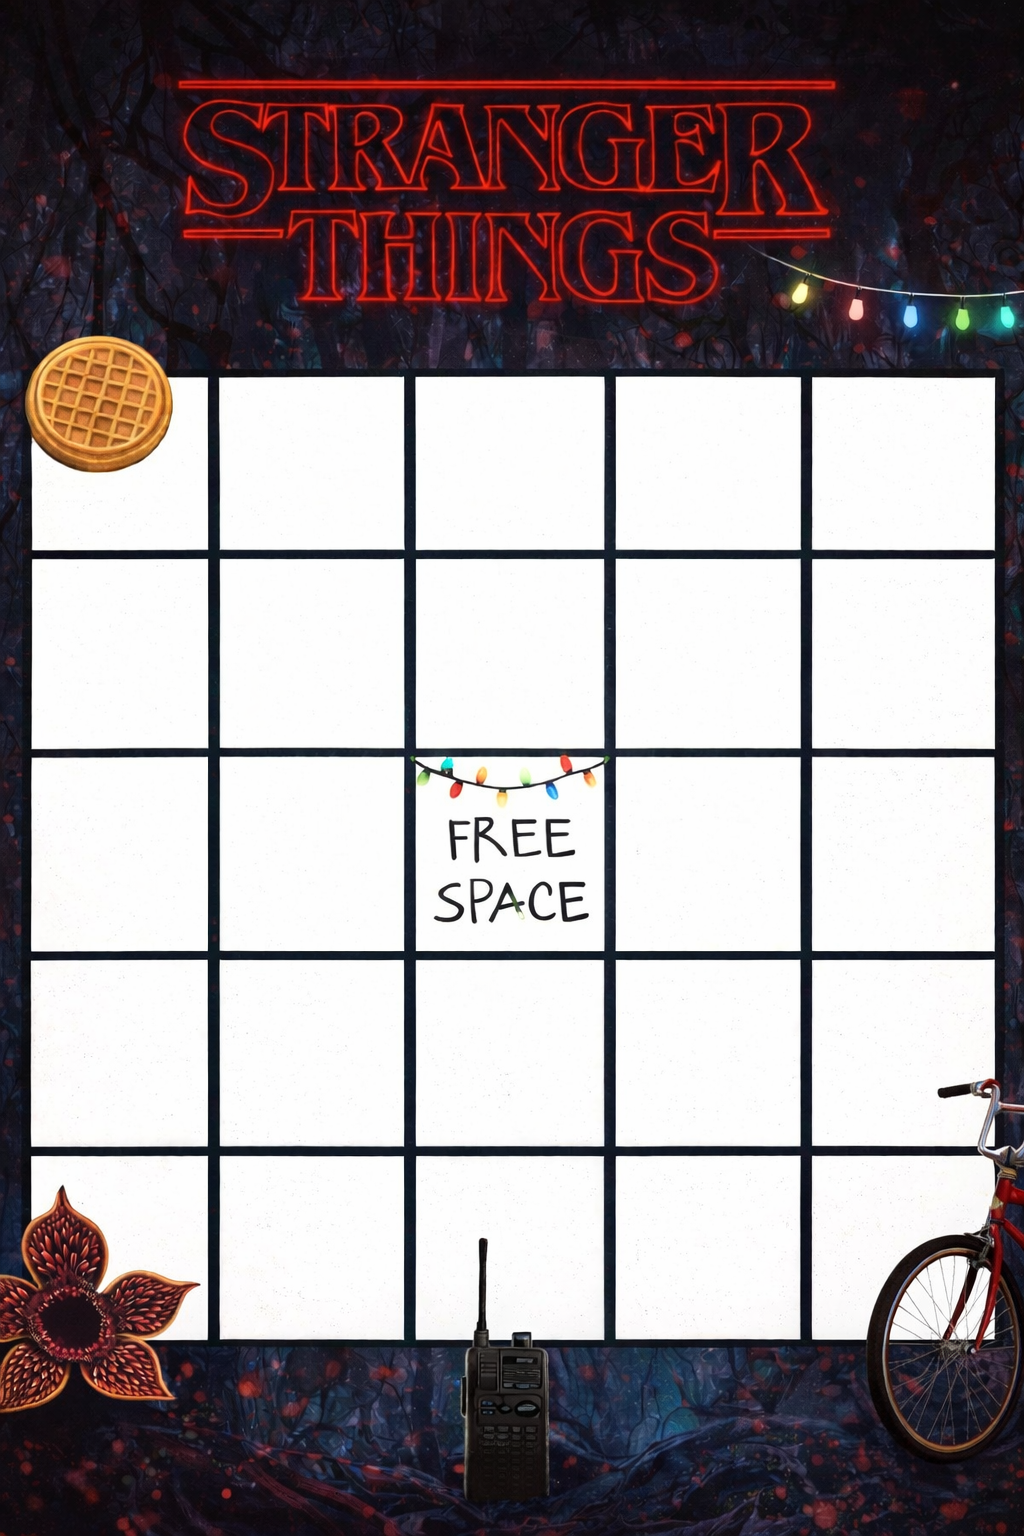
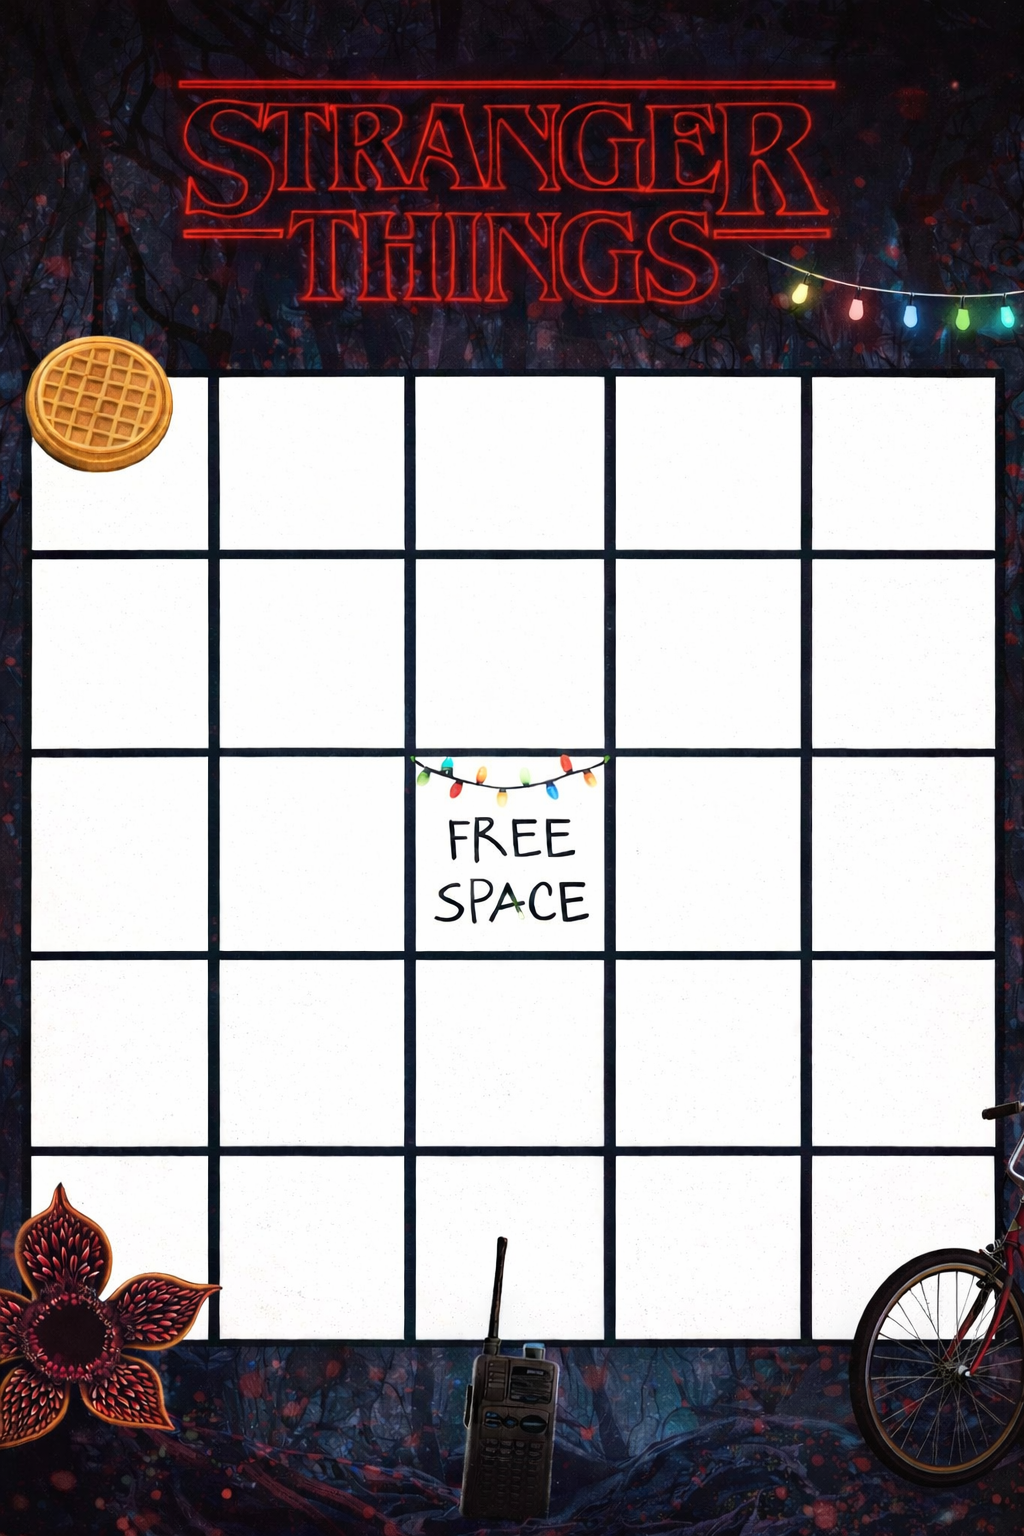
Update visuals and card assets

diff --git a/index.html b/index.html
@@ -16,9 +16,22 @@
             margin: 0;
             overflow: hidden;
             background-color: var(--bg-dark);
+            background-image: url("assets/background.jpg");
+            background-size: cover;
+            background-position: center 12%;
+            background-repeat: no-repeat;
             font-family: 'Courier New', Courier, monospace;
             color: var(--stranger-red);
             user-select: none;
+            font-size: 18px;
+        }
+
+        body::before {
+            content: "";
+            position: fixed;
+            inset: 0;
+            background: rgba(2, 0, 4, 0.78);
+            z-index: 0;
         }
 
         #canvas-container {
@@ -53,7 +66,7 @@
 
         h1 {
             margin: 0;
-            font-size: 2.5rem;
+            font-size: 5rem;
             text-transform: uppercase;
             letter-spacing: 8px;
             text-shadow: 0 0 10px var(--stranger-glow), 0 0 20px #520000;
@@ -68,7 +81,7 @@
             max-height: 250px;
             width: 280px;
             overflow-y: auto;
-            font-size: 0.9rem;
+            font-size: 1.8rem;
             box-shadow: 0 0 15px rgba(199, 62, 62, 0.3);
             backdrop-filter: blur(8px);
         }
@@ -86,7 +99,7 @@
             bottom: 40px;
             left: 50%;
             transform: translateX(-50%);
-            font-size: 1.2rem;
+            font-size: 2.4rem;
             letter-spacing: 4px;
             opacity: 0.8;
             animation: pulse 2s infinite ease-in-out;
@@ -112,8 +125,8 @@
         #modal-content {
             background: var(--panel-bg);
             border: 4px double var(--stranger-red);
-            padding: 40px;
-            width: 600px;
+            padding: 80px;
+            width: 1200px;
             max-width: 90%;
             text-align: center;
             box-shadow: 0 0 60px rgba(255, 0, 0, 0.6);
@@ -127,11 +140,11 @@
         }
 
         #ball-graphic {
-            width: 150px;
-            height: 150px;
+            width: 300px;
+            height: 300px;
             background: radial-gradient(circle at 30% 30%, #fffef8, #d5c4a5);
             border-radius: 50%;
-            margin: 0 auto 30px;
+            margin: 0 auto 60px;
             display: flex;
             justify-content: center;
             align-items: center;
@@ -140,8 +153,8 @@
         }
 
         #ball-text-circle {
-            width: 100px;
-            height: 100px;
+            width: 200px;
+            height: 200px;
             background: #fff;
             border-radius: 50%;
             border: 4px solid #000;
@@ -149,17 +162,17 @@
             justify-content: center;
             align-items: center;
             font-weight: bold;
-            font-size: 2.5rem;
+            font-size: 10rem;
             color: #000;
             text-shadow: none;
         }
 
         #reveal-text {
-            font-size: 2.2rem;
+            font-size: 8.8rem;
             font-weight: bold;
             text-transform: uppercase;
-            margin-bottom: 30px;
-            min-height: 80px;
+            margin-bottom: 60px;
+            min-height: 160px;
             line-height: 1.2;
             text-shadow: 2px 2px #000, 0 0 15px var(--stranger-glow);
         }
@@ -169,9 +182,9 @@
             background: transparent;
             border: 2px solid var(--stranger-red);
             color: var(--stranger-red);
-            padding: 15px 40px;
+            padding: 30px 80px;
             font-family: inherit;
-            font-size: 1.2rem;
+            font-size: 4.8rem;
             cursor: pointer;
             letter-spacing: 4px;
             transition: all 0.3s;
@@ -496,40 +509,40 @@
 
         function createLightning() {
             lightningGroup = new THREE.Group();
-            const boltMat = new THREE.LineBasicMaterial({
-                color: 0xff1a1a, transparent: true, opacity: 0.75
+            const boltMat = new THREE.MeshBasicMaterial({
+                color: 0xf9f3ff, transparent: true, opacity: 0.75
             });
-            const glowMat = new THREE.LineBasicMaterial({
-                color: 0x660000, transparent: true, opacity: 0.35
+            const glowMat = new THREE.MeshBasicMaterial({
+                color: 0x5a2030, transparent: true, opacity: 0.25
             });
 
-            for (let i = 0; i < 6; i++) {
-                const bolt = new THREE.Line(generateBoltGeometry(), boltMat.clone());
-                const glow = new THREE.Line(bolt.geometry.clone(), glowMat.clone());
+            for (let i = 0; i < 2; i++) {
+                const boltGroup = new THREE.Group();
+                const path = generateBoltPath();
+                const bolt = new THREE.Mesh(new THREE.TubeGeometry(path, 20, 0.16, 6, false), boltMat.clone());
+                const glow = new THREE.Mesh(new THREE.TubeGeometry(path, 20, 0.38, 6, false), glowMat.clone());
                 bolt.userData.baseOpacity = 0.75;
-                glow.userData.baseOpacity = 0.35;
-                bolt.position.set((Math.random() - 0.5) * 120, 10 + Math.random() * 40, (Math.random() - 0.5) * 120);
-                glow.position.copy(bolt.position);
-                bolt.rotation.set(Math.random() * Math.PI, Math.random() * Math.PI, Math.random() * Math.PI);
-                glow.rotation.copy(bolt.rotation);
-                lightningGroup.add(glow);
-                lightningGroup.add(bolt);
+                glow.userData.baseOpacity = 0.25;
+                boltGroup.position.set((Math.random() - 0.5) * 100, 10 + Math.random() * 35, (Math.random() - 0.5) * 100);
+                boltGroup.rotation.set(Math.random() * Math.PI, Math.random() * Math.PI, Math.random() * Math.PI);
+                boltGroup.add(glow);
+                boltGroup.add(bolt);
+                lightningGroup.add(boltGroup);
             }
             scene.add(lightningGroup);
         }
 
-        function generateBoltGeometry() {
+        function generateBoltPath() {
             const points = [];
             let x = 0, y = 0, z = 0;
             points.push(new THREE.Vector3(x, y, z));
-            for (let i = 0; i < 10; i++) {
+            for (let i = 0; i < 7; i++) {
                 x += (Math.random() - 0.5) * 6;
                 y -= 3 + Math.random() * 4;
                 z += (Math.random() - 0.5) * 6;
                 points.push(new THREE.Vector3(x, y, z));
             }
-            const geo = new THREE.BufferGeometry().setFromPoints(points);
-            return geo;
+            return new THREE.CatmullRomCurve3(points);
         }
 
         function createCage() {
@@ -886,16 +899,23 @@
             }
             particles.geometry.attributes.position.needsUpdate = true;
 
-            lightningGroup.children.forEach((bolt, i) => {
+            lightningGroup.children.forEach((boltGroup, i) => {
                 const flicker = Math.random() * 0.5 + 0.2;
-                bolt.material.opacity = bolt.userData.baseOpacity * flicker;
-                if (Math.random() < 0.015) {
+                boltGroup.children.forEach((mesh) => {
+                    mesh.material.opacity = mesh.userData.baseOpacity * flicker;
+                });
+                if (Math.random() < 0.006) {
+                    const path = generateBoltPath();
+                    const glow = boltGroup.children[0];
+                    const bolt = boltGroup.children[1];
+                    glow.geometry.dispose();
                     bolt.geometry.dispose();
-                    bolt.geometry = generateBoltGeometry();
-                    bolt.position.y = 10 + Math.random() * 50;
+                    glow.geometry = new THREE.TubeGeometry(path, 20, 0.38, 6, false);
+                    bolt.geometry = new THREE.TubeGeometry(path, 20, 0.16, 6, false);
+                    boltGroup.position.y = 10 + Math.random() * 40;
                 }
                 if (i % 2 === 0) {
-                    bolt.rotation.z += 0.001;
+                    boltGroup.rotation.z += 0.001;
                 }
             });
 

diff --git a/bingo-card.html b/bingo-card.html
@@ -196,7 +196,7 @@
             card.className = "card";
             const bg = document.createElement("img");
             bg.className = "card-bg";
-            bg.src = "assets/bingo-card.png";
+            bg.src = "assets/bingo-card-2.png";
             bg.alt = "Stranger Things bingo card";
             const grid = document.createElement("div");
             grid.className = "grid";
